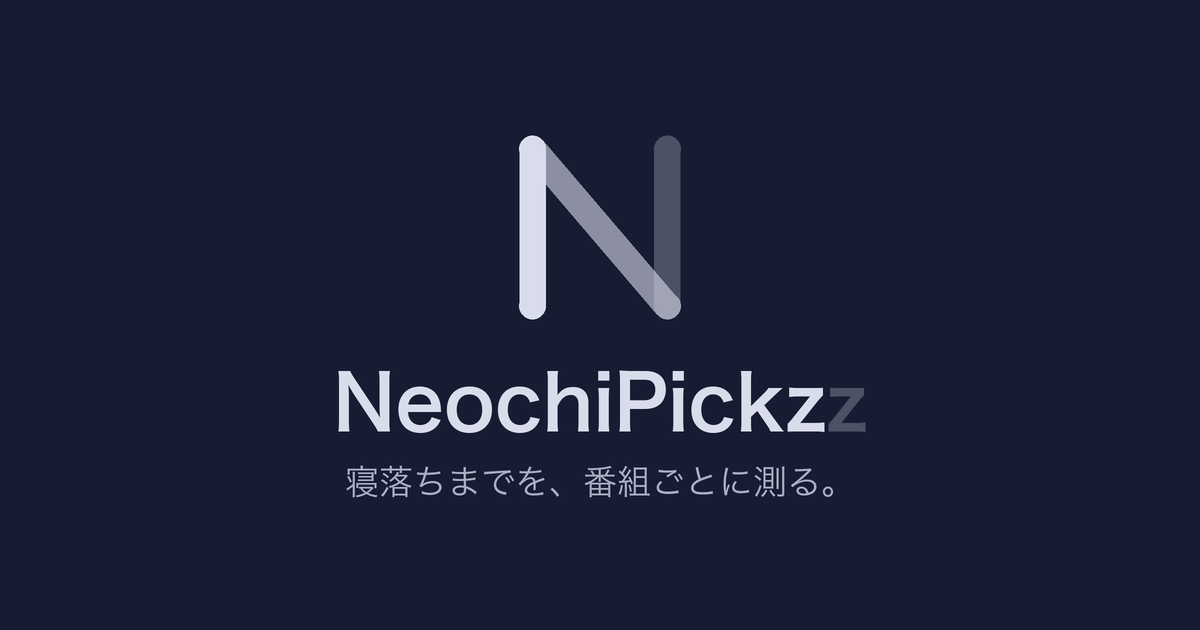
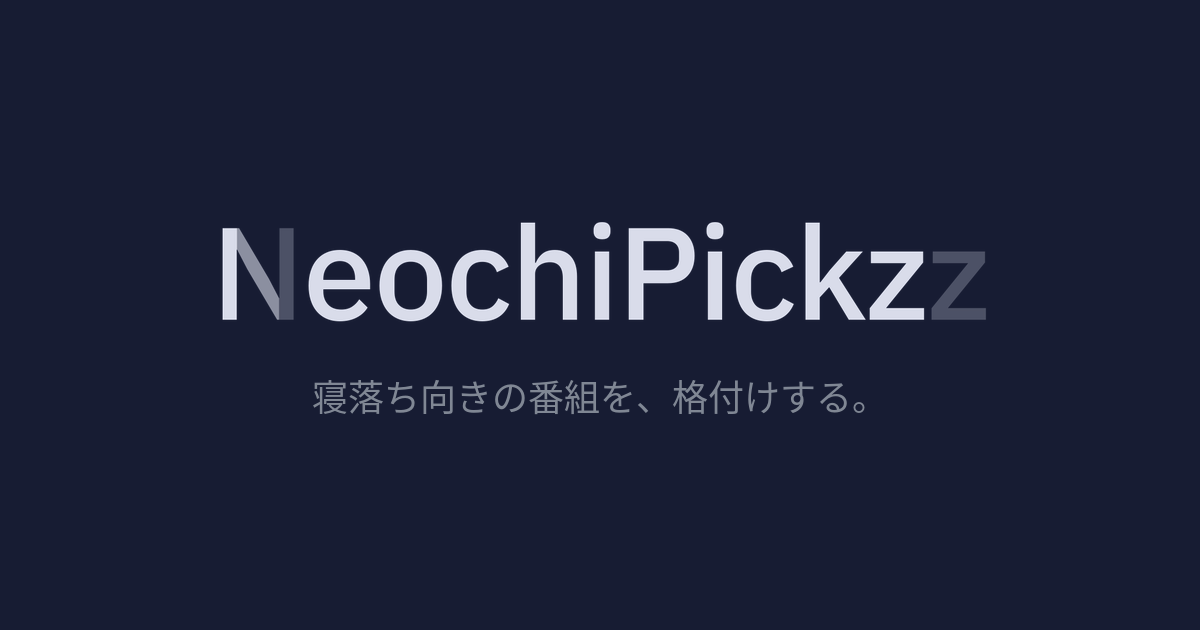
feat(brand): 正式なロゴ・記号・アプリアイコンを design/brand に置く
- design/brand: ワードマーク(暗い地・明るい地・1色)、記号 N、アプリアイコン(1024 角丸なし)、X 用の丸、ファビコン、OG、README(使い方と決まり)
- neochi/brand.py に形の定義を1つにまとめ、書き出し(design/brand/build.py)とサイトが同じものから描く
- 仮だったアプリアイコン(ios)を正式版に差し替え。サイトのロゴ・ファビコン・apple-touch-icon・OG 画像も正式版に揃える
- OG 画像の一行を、いまのタグラインに直す
- 色と濃さが design/tokens.json と一致することをテストで確かめる

Claude-Session: https://claude.ai/code/session_01NVrA1jTJEu8e6oh1gHxN1s

Changed region(s): [[0.185, 0.2111, 0.8325, 0.5127], [0.2467, 0.573, 0.74, 0.6937], [0.2775, 0.7238, 0.6783, 0.7841]]

diff --git a/neochi/site_assets/style.css b/neochi/site_assets/style.css
@@ -57,8 +57,8 @@ main:focus { outline: none; }
 @media (prefers-reduced-motion: reduce) { html { scroll-behavior: auto; } * { transition: none !important; } }
 .logo { display: inline-flex; align-items: baseline; color: var(--logo); text-decoration: none;
   font: 600 20px/1 var(--sans); letter-spacing: 0.01em; }
-.logo-n { width: 0.62em; height: 0.72em; margin-right: 0.05em; overflow: visible; }
-.logo .z2 { opacity: 0.28; }
+.logo-w { display: block; height: 20px; width: auto; }   /* ワードマーク(輪郭の svg)。高さは最小 16px */
+.foot .logo-w { height: 16px; }
 .mark { width: 40%; height: 40%; color: var(--sub); }
 nav a { color: var(--sub); text-decoration: none; font-size: 13px; padding: 12px 0; display: inline-block; }
 nav a:hover { color: var(--text); }

diff --git a/neochi/brand.py b/neochi/brand.py
@@ -1,0 +1,70 @@
+"""ロゴの形(NeochiPickzz のワードマークと記号 N)。書き出し(design/brand/build.py)とサイトが、同じ定義から描く。
+
+字形は IBM Plex Sans Medium を輪郭(path)にしたもので、書体がなくても同じ形になる。決まりは design/brand/README.md。
+濃さは design/tokens.json の opacity-logo-1〜3(1 / 0.6 / 0.28)に合わせる。
+"""
+from __future__ import annotations
+
+O1, O2, O3 = 1.0, 0.6, 0.28
+
+# 頭の N(3本の線が右へ薄れる)。字形は1つで、横に3つに切って濃さを変える
+N_PATH = "M274 -386 197 -534H194V0H86V-698H212L440 -312L517 -164H520V-698H628V0H502Z"
+N_CLIPS = [(-60, 257, O1), (197, 320, O2), (517, 257, O3)]    # (x, 幅, 濃さ)
+# 残りの文字 eochiPick と、末尾の zz(2つ目が薄れる)
+REST = [
+    "M981 12Q925 12 881.0 -7.0Q837 -26 806.0 -61.5Q775 -97 758.5 -147.5Q742 -198 742 -260Q742 -322 758.5 -372.5Q775 -423 806.0 -458.5Q837 -494 881.0 -513.0Q925 -532 981 -532Q1038 -532 1081.5 -512.0Q1125 -492 1154.0 -456.5Q1183 -421 1197.5 -374.0Q1212 -327 1212 -273V-232H855V-215Q855 -155 890.5 -116.5Q926 -78 992 -78Q1040 -78 1073.0 -99.0Q1106 -120 1129 -156L1193 -93Q1164 -45 1109.0 -16.5Q1054 12 981 12ZM981 -447Q953 -447 929.5 -437.0Q906 -427 889.5 -409.0Q873 -391 864.0 -366.0Q855 -341 855 -311V-304H1097V-314Q1097 -374 1066.0 -410.5Q1035 -447 981 -447Z",
+    "M1522 12Q1468 12 1423.5 -7.0Q1379 -26 1348.0 -61.5Q1317 -97 1300.0 -147.5Q1283 -198 1283 -260Q1283 -322 1300.0 -372.5Q1317 -423 1348.0 -458.5Q1379 -494 1423.5 -513.0Q1468 -532 1522 -532Q1576 -532 1620.5 -513.0Q1665 -494 1696.0 -458.5Q1727 -423 1744.0 -372.5Q1761 -322 1761 -260Q1761 -198 1744.0 -147.5Q1727 -97 1696.0 -61.5Q1665 -26 1620.5 -7.0Q1576 12 1522 12ZM1522 -78Q1578 -78 1612.0 -112.5Q1646 -147 1646 -216V-304Q1646 -373 1612.0 -407.5Q1578 -442 1522 -442Q1466 -442 1432.0 -407.5Q1398 -373 1398 -304V-216Q1398 -147 1432.0 -112.5Q1466 -78 1522 -78Z",
+    "M2068 12Q2012 12 1968.0 -7.0Q1924 -26 1894.0 -61.5Q1864 -97 1848.0 -147.5Q1832 -198 1832 -260Q1832 -322 1848.0 -372.5Q1864 -423 1894.0 -458.5Q1924 -494 1968.0 -513.0Q2012 -532 2068 -532Q2146 -532 2196.0 -497.0Q2246 -462 2269 -404L2179 -362Q2168 -398 2140.5 -419.5Q2113 -441 2068 -441Q2008 -441 1977.5 -403.5Q1947 -366 1947 -306V-213Q1947 -153 1977.5 -115.5Q2008 -78 2068 -78Q2116 -78 2144.5 -101.5Q2173 -125 2190 -164L2273 -120Q2247 -56 2195.0 -22.0Q2143 12 2068 12Z",
+    "M2362 -740H2471V-434H2476Q2493 -476 2527.5 -504.0Q2562 -532 2622 -532Q2702 -532 2746.5 -479.5Q2791 -427 2791 -330V0H2682V-317Q2682 -438 2584 -438Q2563 -438 2542.5 -432.5Q2522 -427 2506.0 -416.0Q2490 -405 2480.5 -388.0Q2471 -371 2471 -349V0H2362Z",
+    "M2982 -613Q2948 -613 2932.5 -629.0Q2917 -645 2917 -670V-687Q2917 -712 2932.5 -728.0Q2948 -744 2982 -744Q3016 -744 3031.0 -728.0Q3046 -712 3046 -687V-670Q3046 -645 3031.0 -629.0Q3016 -613 2982 -613ZM2927 -520H3036V0H2927Z",
+    "M3185 0V-698H3485Q3582 -698 3635.0 -641.0Q3688 -584 3688 -488Q3688 -392 3635.0 -335.0Q3582 -278 3485 -278H3298V0ZM3298 -377H3478Q3521 -377 3545.0 -399.5Q3569 -422 3569 -464V-512Q3569 -554 3545.0 -576.5Q3521 -599 3478 -599H3298Z",
+    "M3844 -613Q3810 -613 3794.5 -629.0Q3779 -645 3779 -670V-687Q3779 -712 3794.5 -728.0Q3810 -744 3844 -744Q3878 -744 3893.0 -728.0Q3908 -712 3908 -687V-670Q3908 -645 3893.0 -629.0Q3878 -613 3844 -613ZM3789 -520H3898V0H3789Z",
+    "M4240 12Q4184 12 4140.0 -7.0Q4096 -26 4066.0 -61.5Q4036 -97 4020.0 -147.5Q4004 -198 4004 -260Q4004 -322 4020.0 -372.5Q4036 -423 4066.0 -458.5Q4096 -494 4140.0 -513.0Q4184 -532 4240 -532Q4318 -532 4368.0 -497.0Q4418 -462 4441 -404L4351 -362Q4340 -398 4312.5 -419.5Q4285 -441 4240 -441Q4180 -441 4149.5 -403.5Q4119 -366 4119 -306V-213Q4119 -153 4149.5 -115.5Q4180 -78 4240 -78Q4288 -78 4316.5 -101.5Q4345 -125 4362 -164L4445 -120Q4419 -56 4367.0 -22.0Q4315 12 4240 12Z",
+    "M4534 -740H4643V-286H4648L4720 -379L4845 -520H4972L4790 -319L4994 0H4864L4715 -248L4643 -170V0H4534Z",
+]
+Z1 = "M5024 0V-88L5303 -431H5033V-520H5432V-436L5149 -89H5439V0Z"
+Z2 = "M5496 0V-88L5775 -431H5505V-520H5904V-436L5621 -89H5911V0Z"
+WORD_VIEWBOX = (-10, -760, 5952, 800)
+
+NS = 'xmlns="http://www.w3.org/2000/svg"'
+BG, FG = "#171C33", "#D9DCEA"     # design/tokens.json の logo-bg / logo-fg(テストで一致を確かめる)
+
+
+def _n(fill: str, uid: str, mono: bool = False) -> str:
+    """N の3層。mono=True は濃淡なし(刺繍・刻印用)。"""
+    defs = "".join(f'<clipPath id="{uid}{i}"><rect x="{x}" y="-900" width="{w}" height="1100"/></clipPath>' for i, (x, w, _) in enumerate(N_CLIPS))
+    body = "".join(f'<path d="{N_PATH}" fill="{fill}" fill-opacity="{1 if mono else o}" clip-path="url(#{uid}{i})"/>' for i, (_, _, o) in enumerate(N_CLIPS))
+    return f"<defs>{defs}</defs>{body}"
+
+
+def wordmark(fg: str, mono: bool = False, title: str = "NeochiPickzz", uid: str = "n", cls: str = "") -> str:
+    """横組みのロゴ。uid は、1つの HTML に複数置くときの clipPath の名前(重ならないように変える)。"""
+    x, y, w, h = WORD_VIEWBOX
+    rest = "".join(f'<path d="{d}" fill="{fg}"/>' for d in REST)
+    zz = f'<path d="{Z1}" fill="{fg}"/><path d="{Z2}" fill="{fg}" fill-opacity="{1 if mono else O3}"/>'
+    c = f' class="{cls}"' if cls else ""
+    return (f'<svg {NS}{c} role="img" aria-label="{title}" viewBox="{x} {y} {w} {h}" width="{w // 8}" height="{h // 8}">'
+            f'<title>{title}</title>{_n(fg, uid, mono)}{rest}{zz}</svg>\n')
+
+
+def symbol(fg: str, mono: bool = False, uid: str = "n", cls: str = "", decorative: bool = False) -> str:
+    """N だけ(背景なし)。余白は N の幅の 1/27 ずつ。"""
+    c = f' class="{cls}"' if cls else ""
+    a = ' aria-hidden="true"' if decorative else ' role="img" aria-label="NeochiPickzz"'
+    t = "" if decorative else "<title>NeochiPickzz</title>"
+    return f'<svg {NS}{c}{a} viewBox="66 -718 582 738" width="291" height="369">{t}{_n(fg, uid, mono)}</svg>\n'
+
+
+ICON_N_HEIGHT = 0.46   # アプリアイコンで、N の高さが占める割合。小さい表示でも N の線2本が残る大きさ
+
+
+def icon(shape: str = "square", size: int = 1024, n_height: float = ICON_N_HEIGHT, radius: float = 0.0) -> str:
+    """アプリアイコン系: 紺の地に N 一文字を中央に置く。square は角丸なし(Apple が角を丸める)、circle は X など、radius は favicon。"""
+    k = size * n_height / 698            # N の高さ(698 単位)を、アイコンの n_height 割に合わせる
+    tx, ty = size / 2 - 357 * k, size / 2 + 349 * k
+    bg = (f'<circle cx="{size / 2}" cy="{size / 2}" r="{size / 2}" fill="{BG}"/>' if shape == "circle"
+          else f'<rect width="{size}" height="{size}" rx="{size * radius}" fill="{BG}"/>')
+    return (f'<svg {NS} role="img" aria-label="NeochiPickzz" viewBox="0 0 {size} {size}" width="{size}" height="{size}">'
+            f'<title>NeochiPickzz</title>{bg}<g transform="translate({tx:.1f} {ty:.1f}) scale({k:.4f})">{_n(FG, "i")}</g></svg>\n')
+
+

diff --git a/design/brand/build.py b/design/brand/build.py
@@ -1,0 +1,109 @@
+"""ブランドアセット(ロゴ・記号・アプリアイコン)を書き出す。リポジトリの直下で `python design/brand/build.py`。
+
+形の定義は neochi/brand.py(サイトも同じものを使う)。色と濃さは design/tokens.json の logo-bg / logo-fg / opacity-logo-1〜3。
+PNG は rsvg-convert(librsvg)で書き出す。OG 画像の文字は Noto Sans CJK(なければ OG だけ作らない)。
+書き出し先: design/brand/svg、design/brand/png。あわせて、アプリアイコン(ios)とサイトの画像も同じものに更新する。
+"""
+from __future__ import annotations
+
+import json
+import shutil
+import subprocess
+import sys
+from pathlib import Path
+
+HERE = Path(__file__).resolve().parent
+ROOT = HERE.parent.parent
+sys.path.insert(0, str(ROOT))
+from neochi import brand, strings  # noqa: E402
+
+SVG, PNG = HERE / "svg", HERE / "png"
+PNG_ICONS = [1024, 512, 192, 180, 120, 60]
+IOS_ICON = ROOT / "ios/App/Assets.xcassets/AppIcon.appiconset/icon-1024.png"
+SITE_ASSETS = ROOT / "neochi/site_assets"
+FONT = "/usr/share/fonts/opentype/noto/NotoSansCJK-Regular.ttc"
+
+FILES = {
+    # ロゴ(横組み・基本形)。地の色に合わせて選ぶ
+    "wordmark-on-dark.svg": brand.wordmark(brand.FG),                    # 暗い地(基本)
+    "wordmark-on-light.svg": brand.wordmark(brand.BG),                   # 明るい地
+    "wordmark-mono-on-light.svg": brand.wordmark(brand.BG, mono=True),   # 1色・濃淡なし(刺繍、ハンコ、刻印)
+    "wordmark-mono-on-dark.svg": brand.wordmark(brand.FG, mono=True),
+    # 記号 N(背景なし)
+    "symbol-on-dark.svg": brand.symbol(brand.FG),
+    "symbol-on-light.svg": brand.symbol(brand.BG),
+    "symbol-mono-on-light.svg": brand.symbol(brand.BG, mono=True),
+    "symbol-mono-on-dark.svg": brand.symbol(brand.FG, mono=True),
+    # アイコン
+    "app-icon.svg": brand.icon("square"),                                # iOS。角丸なしの正方形
+    "app-icon-circle.svg": brand.icon("circle"),                         # X など、丸く切り抜かれる場所
+    "favicon.svg": brand.icon("square", 1024, 0.62, 0.22),               # 16px でも N の線2本が残るよう、N を大きく
+}
+
+
+def render(svg: Path, png: Path, width: int, height: int | None = None) -> None:
+    cmd = ["rsvg-convert", str(svg), "-o", str(png), "-w", str(width)]
+    if height:
+        cmd += ["-h", str(height)]
+    subprocess.run(cmd, check=True)
+
+
+def og_image(out: Path) -> bool:
+    """共有カード(1200×630)。紺の地に、ワードマークと一行の説明。"""
+    try:
+        from PIL import Image, ImageDraw, ImageFont
+    except ImportError:
+        return False
+    if not Path(FONT).exists():
+        return False
+    W, H = 1200, 630
+    img = Image.new("RGB", (W, H), brand.BG)
+    wm = PNG / "wordmark-on-dark@2x.png"
+    mark = Image.open(wm).convert("RGBA")
+    mw = 780
+    mark = mark.resize((mw, round(mark.height * mw / mark.width)), Image.LANCZOS)
+    font = ImageFont.truetype(FONT, 36, index=0)
+    text = strings.TAGLINE
+    d = ImageDraw.Draw(img)
+    tw = d.textlength(text, font=font)
+    gap = 44
+    top = (H - (mark.height + gap + 40)) // 2
+    img.paste(mark, ((W - mw) // 2, top), mark)
+    d.text(((W - tw) / 2, top + mark.height + gap), text, font=font, fill=(128, 135, 148))
+    img.save(out, optimize=True)
+    return True
+
+
+def main() -> int:
+    if not shutil.which("rsvg-convert"):
+        print("rsvg-convert(librsvg)が要ります。apt install librsvg2-bin / brew install librsvg", file=sys.stderr)
+        return 1
+    tokens = json.loads((ROOT / "design" / "tokens.json").read_text(encoding="utf-8"))
+    logo = {t["name"]: t["value"] for t in tokens["logo"]["tokens"]}
+    assert (brand.BG, brand.FG) == (logo["logo-bg"], logo["logo-fg"]), "neochi/brand.py の色が design/tokens.json と違います"
+    for d in (SVG, PNG):
+        d.mkdir(exist_ok=True)
+        for f in d.iterdir():
+            f.unlink()
+    for name, text in FILES.items():
+        (SVG / name).write_text(text, encoding="utf-8")
+    for s in PNG_ICONS:
+        render(SVG / "app-icon.svg", PNG / f"app-icon-{s}.png", s, s)
+    render(SVG / "app-icon-circle.svg", PNG / "x-profile-400.png", 400, 400)
+    for s in (32, 16):
+        render(SVG / "favicon.svg", PNG / f"favicon-{s}.png", s, s)
+    for tone in ("dark", "light"):
+        render(SVG / f"wordmark-on-{tone}.svg", PNG / f"wordmark-on-{tone}@2x.png", 1488)   # 透過 PNG。SVG の2倍
+        render(SVG / f"symbol-on-{tone}.svg", PNG / f"symbol-on-{tone}@2x.png", 582)
+    made_og = og_image(PNG / "og-1200x630.png")
+    # 使う場所へ: アプリアイコン(角丸なし1024)、サイトの共有カードと apple-touch-icon
+    shutil.copy(PNG / "app-icon-1024.png", IOS_ICON)
+    shutil.copy(PNG / "app-icon-180.png", SITE_ASSETS / "apple-touch-icon.png")
+    if made_og:
+        shutil.copy(PNG / "og-1200x630.png", SITE_ASSETS / "og.png")
+    print(f"svg {len(list(SVG.iterdir()))} 点、png {len(list(PNG.iterdir()))} 点を書き出しました(OG {'更新' if made_og else '未更新'})")
+    return 0
+
+
+if __name__ == "__main__":
+    raise SystemExit(main())

diff --git a/neochi/site.py b/neochi/site.py
@@ -19,7 +19,7 @@ from html import escape
 from pathlib import Path
 from statistics import mean
 
-from . import strings
+from . import brand, strings
 from .scoring import is_judged
 
 ASSETS = Path(__file__).resolve().parent / "site_assets"
@@ -257,16 +257,14 @@ def n1(v: float | None) -> str:
 
 
 def mark_svg(cls: str = "mark") -> str:
-    """ロゴの記号 N。3本の線の濃さは design/tokens.json の opacity-logo-1〜3(アプリアイコンと同じ形)。"""
-    return (f'<svg class="{cls}" viewBox="300 270 425 485" aria-hidden="true" fill="none" stroke="currentColor" '
-            'stroke-width="71" stroke-linecap="round">'
-            '<path d="M689.5 305.5V719" opacity=".28"/><path d="M335.5 305.5L689.5 719" opacity=".6"/>'
-            '<path d="M335.5 305.5V719"/></svg>')
+    """ロゴの記号 N(3本の線が右へ薄れる)。形は neochi/brand.py。色は文字の色(currentColor)。"""
+    return brand.symbol("currentColor", cls=cls, uid=f"n-{cls}", decorative=True).strip()
 
 
-def wordmark(root: str) -> str:
-    return (f'<a class="logo" href="{root}" aria-label="NeochiPickzz トップ">{mark_svg("logo-n")}'
-            '<span aria-hidden="true">eochiPick<span class="z1">z</span><span class="z2">z</span></span></a>')
+def wordmark(root: str, uid: str = "w") -> str:
+    """ロゴ NeochiPickzz(横組み)。同じページに2つ置くので、uid で clipPath の名前を分ける。"""
+    return (f'<a class="logo" href="{root}" aria-label="NeochiPickzz トップ">'
+            f'{brand.wordmark("currentColor", uid=uid, cls="logo-w", title="NeochiPickzz").strip()}</a>')
 
 
 def badge(rank: str, small: bool = False) -> str:
@@ -340,7 +338,7 @@ def page(*, title: str, desc: str, root: str, body: str, canonical: str = "", og
 {body}
 </main>
 <footer class="foot"><div class="wrap">
-<div class="foot-brand">{wordmark(root)}<span class="foot-made">made by {MAKER}</span></div>
+<div class="foot-brand">{wordmark(root, "wf")}<span class="foot-made">made by {MAKER}</span></div>
 <nav class="foot-nav"><a href="{root}">トップ</a><a href="{root}ranking/">ランキング</a><a href="{root}episodes/">寝落ち向きの話</a><a href="{root}about/">スコアと根拠</a></nav>
 <p>{FOOT_NOTE}</p>
 <p>{FOOT_RIGHTS}</p>
@@ -1023,9 +1021,7 @@ out.innerHTML='';const m=document.createElement('b');m.textContent=p.dataset.min
 out.append(m,' '+p.dataset.note+' ',s);};p.addEventListener('click',pick);p.addEventListener('keydown',e=>{if(e.key==='Enter'||e.key===' '){e.preventDefault();pick();}});});});})();
 """
 
-FAVICON = ('<svg xmlns="http://www.w3.org/2000/svg" viewBox="0 0 1024 1024"><rect width="1024" height="1024" rx="224" fill="#171C33"/>'
-           '<g fill="none" stroke="#D9DCEA" stroke-width="71" stroke-linecap="round">'
-           '<path d="M689.5 305.5V719" opacity=".28"/><path d="M335.5 305.5L689.5 719" opacity=".6"/><path d="M335.5 305.5V719"/></g></svg>')
+FAVICON = brand.icon("square", 1024, 0.62, 0.22)   # design/brand/svg/favicon.svg と同じ
 
 
 def build(data: dict, out_dir: str | Path, cfg: dict, base_url: str = "") -> list[dict]:

diff --git a/tests/test_site.py b/tests/test_site.py
@@ -83,7 +83,7 @@ def test_episode_page_has_evidence(tmp_path):
 def test_logo_and_icons(tmp_path):
     site.build(DATA, tmp_path, cli.load_config(), "https://example.com/")
     h = (tmp_path / "index.html").read_text(encoding="utf-8")
-    assert 'class="logo-n"' in h and 'og:image" content="https://example.com/og.png"' in h
+    assert 'class="logo-w"' in h and 'og:image" content="https://example.com/og.png"' in h
     for f in ("og.png", "apple-touch-icon.png", "favicon.svg", "style.css"):
         assert (tmp_path / f).exists()
 
@@ -240,3 +240,22 @@ def test_explainer_page_cites_every_source_and_marks_strength(tmp_path):
     assert f"起伏の少なさ {w['calm']:.1f}、程よい興味 {w['interest']:.1f}、耳のゆるさ {w['ear']:.1f}" in h
     assert "眠れることの約束ではありません" in h
     assert "スコアと根拠" in (tmp_path / "index.html").read_text(encoding="utf-8")
+
+
+def test_brand_matches_tokens_and_exports():
+    """ロゴの色と濃さは design/tokens.json と同じ。書き出したアセットが揃っている。"""
+    import json
+    from pathlib import Path
+
+    from neochi import brand
+    root = Path(__file__).resolve().parent.parent
+    tk = json.loads((root / "design/tokens.json").read_text(encoding="utf-8"))
+    logo = {t["name"]: t["value"] for t in tk["logo"]["tokens"]}
+    op = {t["name"]: float(t["value"]) for t in tk["opacity"]["tokens"] if t["name"].startswith("opacity-logo")}
+    assert (brand.BG, brand.FG) == (logo["logo-bg"], logo["logo-fg"])
+    assert (brand.O1, brand.O2, brand.O3) == (op["opacity-logo-1"], op["opacity-logo-2"], op["opacity-logo-3"])
+    for f in ("svg/wordmark-on-dark.svg", "svg/wordmark-on-light.svg", "svg/symbol-on-dark.svg", "svg/app-icon.svg", "svg/favicon.svg",
+              "png/app-icon-1024.png", "png/og-1200x630.png", "png/x-profile-400.png"):
+        assert (root / "design/brand" / f).exists(), f
+    # 同じページにワードマークを2つ置いても、clipPath の名前が重ならない
+    assert brand.wordmark("#fff", uid="a") .count('id="a0"') == 1 and 'id="b0"' in brand.wordmark("#fff", uid="b")

diff --git a/design/brand/README.md b/design/brand/README.md
@@ -1,0 +1,41 @@
+# NeochiPickzz ブランドアセット
+
+ロゴ・記号・アプリアイコンの正式版。**ここにあるファイルを使い、作り直さない。** 形の定義は `neochi/brand.py`、書き出しは `python design/brand/build.py`(`librsvg` の `rsvg-convert` が要る)。色と濃さは `design/tokens.json`(`logo-bg` `logo-fg` `opacity-logo-1〜3`)。
+
+## 何を使うか
+
+| 場所 | ファイル | 備考 |
+|---|---|---|
+| ロゴ(基本) | `svg/wordmark-on-dark.svg` | 暗い地。紺 `#171C33` の上に置く |
+| ロゴ(明るい地) | `svg/wordmark-on-light.svg` | |
+| ロゴ(1色・濃淡なし) | `svg/wordmark-mono-on-light.svg` / `-on-dark.svg` | 刺繍、ハンコ、刻印など、薄れが出せないとき |
+| 記号 N | `svg/symbol-*.svg` | ロゴの N だけ。背景なし |
+| iOS アプリアイコン | `png/app-icon-1024.png` | 角丸なしの正方形。`ios/.../AppIcon.appiconset/icon-1024.png` にも同じものを入れてある |
+| X・SNS のアイコン | `png/x-profile-400.png` | 丸く切り抜かれるので、N は中央 |
+| Web アイコン | `png/app-icon-192.png` `app-icon-512.png` `app-icon-180.png`(apple-touch-icon) `svg/favicon.svg` `png/favicon-32.png` `favicon-16.png` | ファビコンは N を大きくしてある |
+| 共有カード(OG) | `png/og-1200x630.png` | サイトの `og.png` と同じ |
+| スライド・資料 | `png/wordmark-on-dark@2x.png` `-on-light@2x.png` `png/symbol-*@2x.png` | 透過 PNG |
+
+## 形と色
+
+- ワードマークは一語の **NeochiPickzz**。IBM Plex Sans Medium の字形を輪郭(path)にしてあり、書体がなくても同じ形で描ける。文字として打ち直さない。
+- 頭の **N** は、3本の線が右へ薄れる(100% → 60% → 28%)。末尾の **zz** は、1つ目が 100%、2つ目が 28%。名前の両端が寝落ちになる。
+- 色は 2 色だけ。地 `#171C33`(logo-bg)、文字と記号 `#D9DCEA`(logo-fg)。明るい地では、地と文字を入れ替える。画面の評点(琥珀)や結果(青灰)の色とは混ぜない。
+- アイコンは、紺の地に N 一文字を中央に置く。N の高さは辺の 46%。
+
+## 使い方の決まり
+
+- 基本形のロゴは1つ。記号をワードマークの横に添えない。
+- 周りに N の幅以上の余白を空ける。
+- 最小サイズは、ワードマークで高さ 16px。それより小さい場所では記号だけにする。
+- 薄れの順(左から右)を逆にしない。N と zz 以外の文字は薄くしない。
+- スペースを入れて二語にしない。別の書体で組まない。
+- 小文字・大文字は `NeochiPickzz`(N と P だけ大文字)。カタカナには直さない。
+
+## 作り直すとき
+
+```bash
+python design/brand/build.py   # svg/ と png/ を作り直し、ios のアプリアイコンとサイトの og.png・apple-touch-icon.png も更新する
+```
+
+デザインの元の検討は、ロゴの板(claude.ai のデザインキャンバス「NeochiPickzz ロゴ」)の「ロゴ体系：NeochiPickzz」「ロゴの色」にある。形や色を変えるときは、そこで決めてから `neochi/brand.py` と `design/tokens.json` を直す。

diff --git a/docs/TESTFLIGHT.md b/docs/TESTFLIGHT.md
@@ -25,7 +25,7 @@
 3. App Store Connect でアプリを作る(名前 NeochiPickzz。使用済みと言われたら教える)。
 4. **Supabase の「Allow anonymous sign-ins」をオンにする**(Authentication → Providers)。いまはオフ(登録の応答が 422)。オフのままだと、朝の振り返りの記録がサーバーに送れない。
 5. プライバシーポリシーを公開して、URL を App Store Connect の App Privacy に入れる(SETUP.md E の下書き)。App Privacy の回答は、`PrivacyInfo.xcprivacy` と同じ内容(睡眠データ・デバイスID、ユーザーに紐づく、追跡なし、アプリの機能)。
-6. 正式なロゴ(1024×1024、角丸なし)を渡す。`App/Assets.xcassets/AppIcon.appiconset/icon-1024.png` を差し替える。
+6. ~~正式なロゴを渡す~~ 済み(2026-11-16)。正式なアプリアイコン(1024×1024、角丸なし)を `App/Assets.xcassets/AppIcon.appiconset/icon-1024.png` に入れた。元は `design/brand/`。
 7. Xcode で Apple ID を登録する(Settings → Accounts)。
 
 ## ターミナルだけで出す(登録済みの実機なしで可。Bitdone リポジトリの手法)
